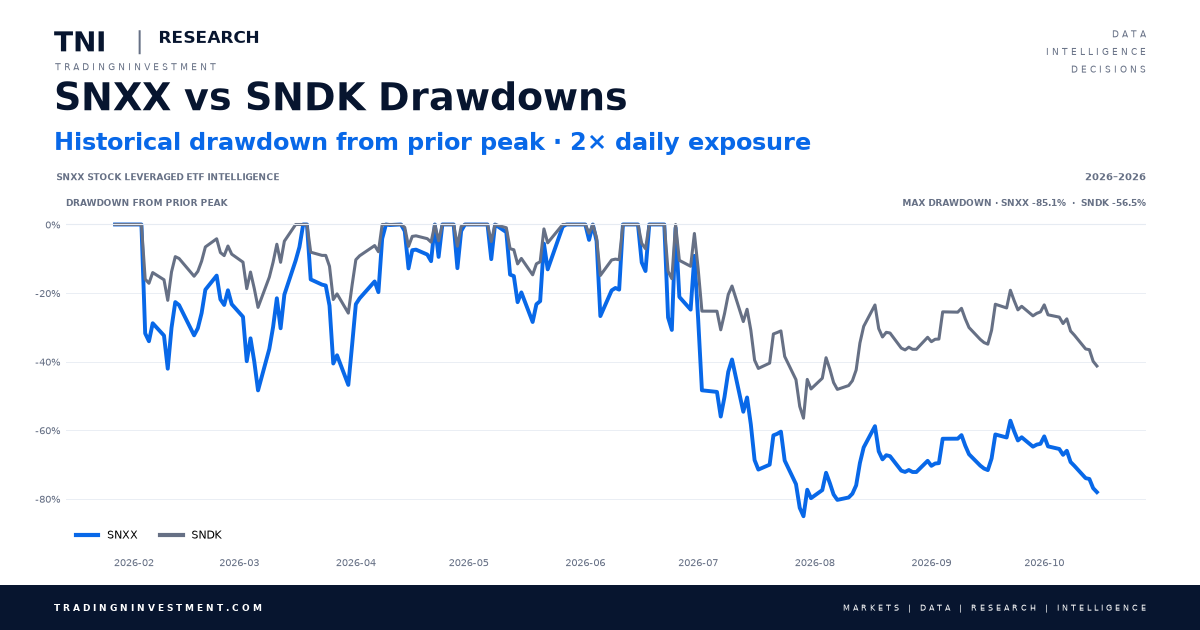
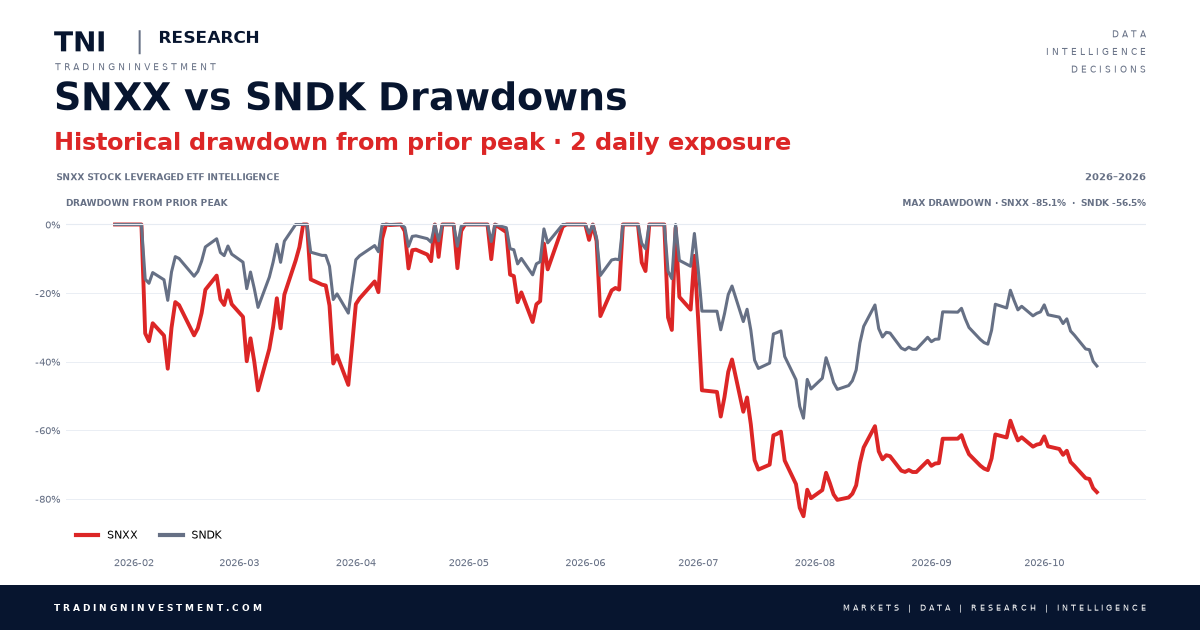
Fix SNXX drawdown chart color to red

diff --git a/scripts/generate-leveraged-etf-drawdown-social-chart.py b/scripts/generate-leveraged-etf-drawdown-social-chart.py
@@ -54,7 +54,7 @@ muted = "#667085"
 grid = "#e6ebf2"
 background = "#ffffff"
 
-asset_color = "#0868e8"
+asset_color = "#DC2626"
 benchmark_color = "#667085"
 
 fig = plt.figure(figsize=(12, 6.3), dpi=100)
